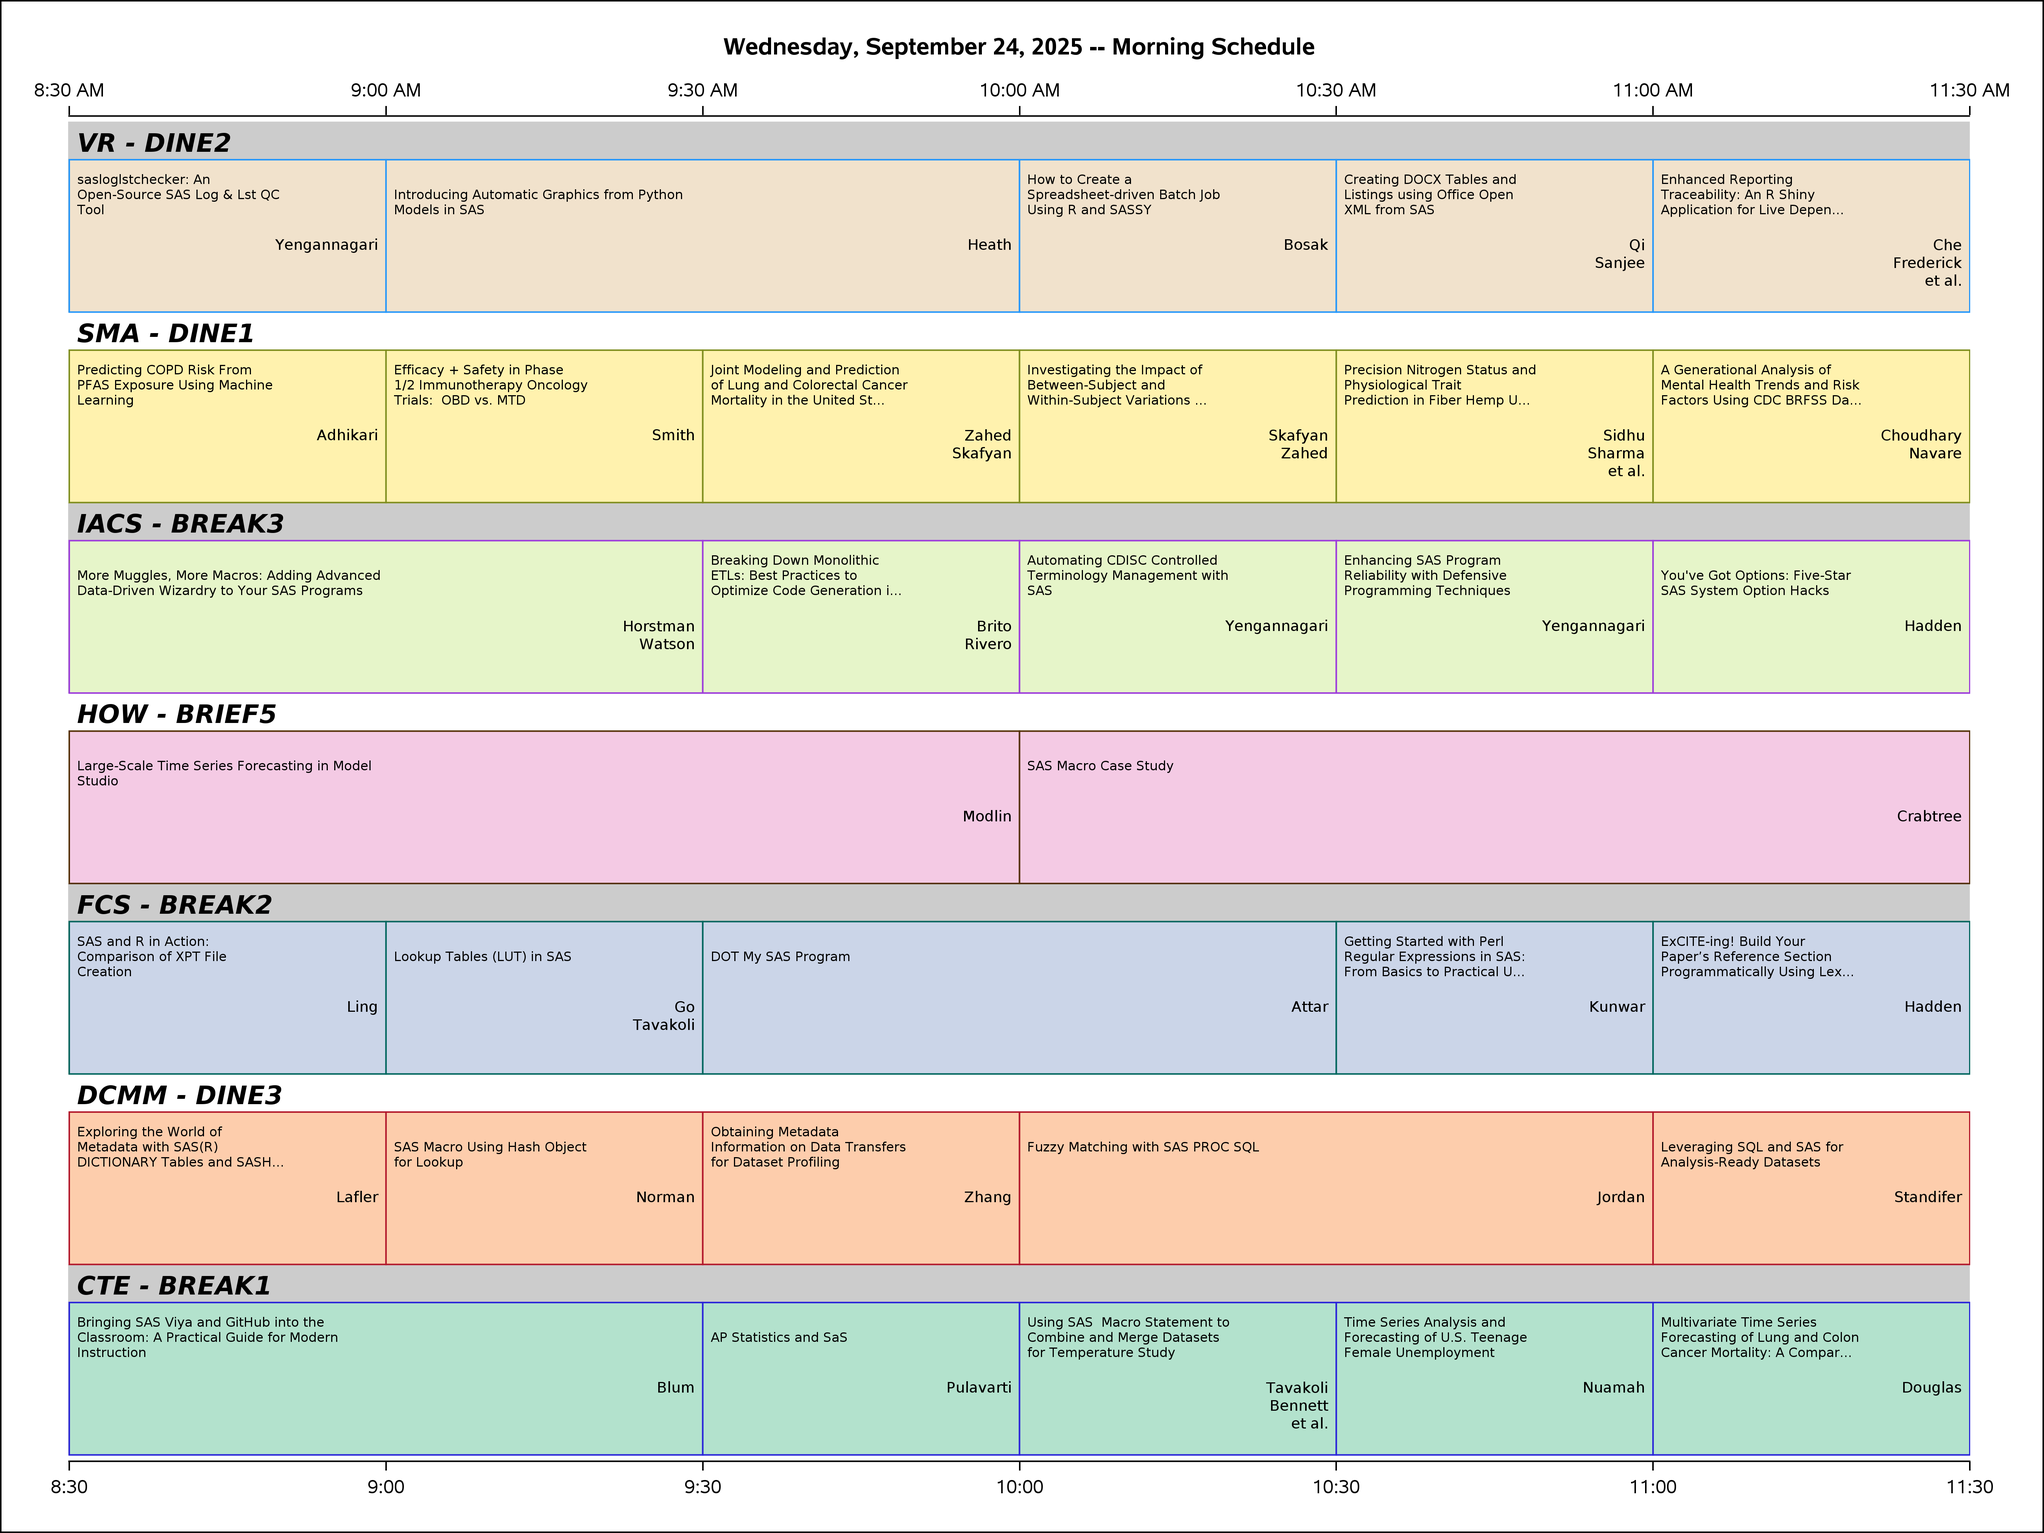
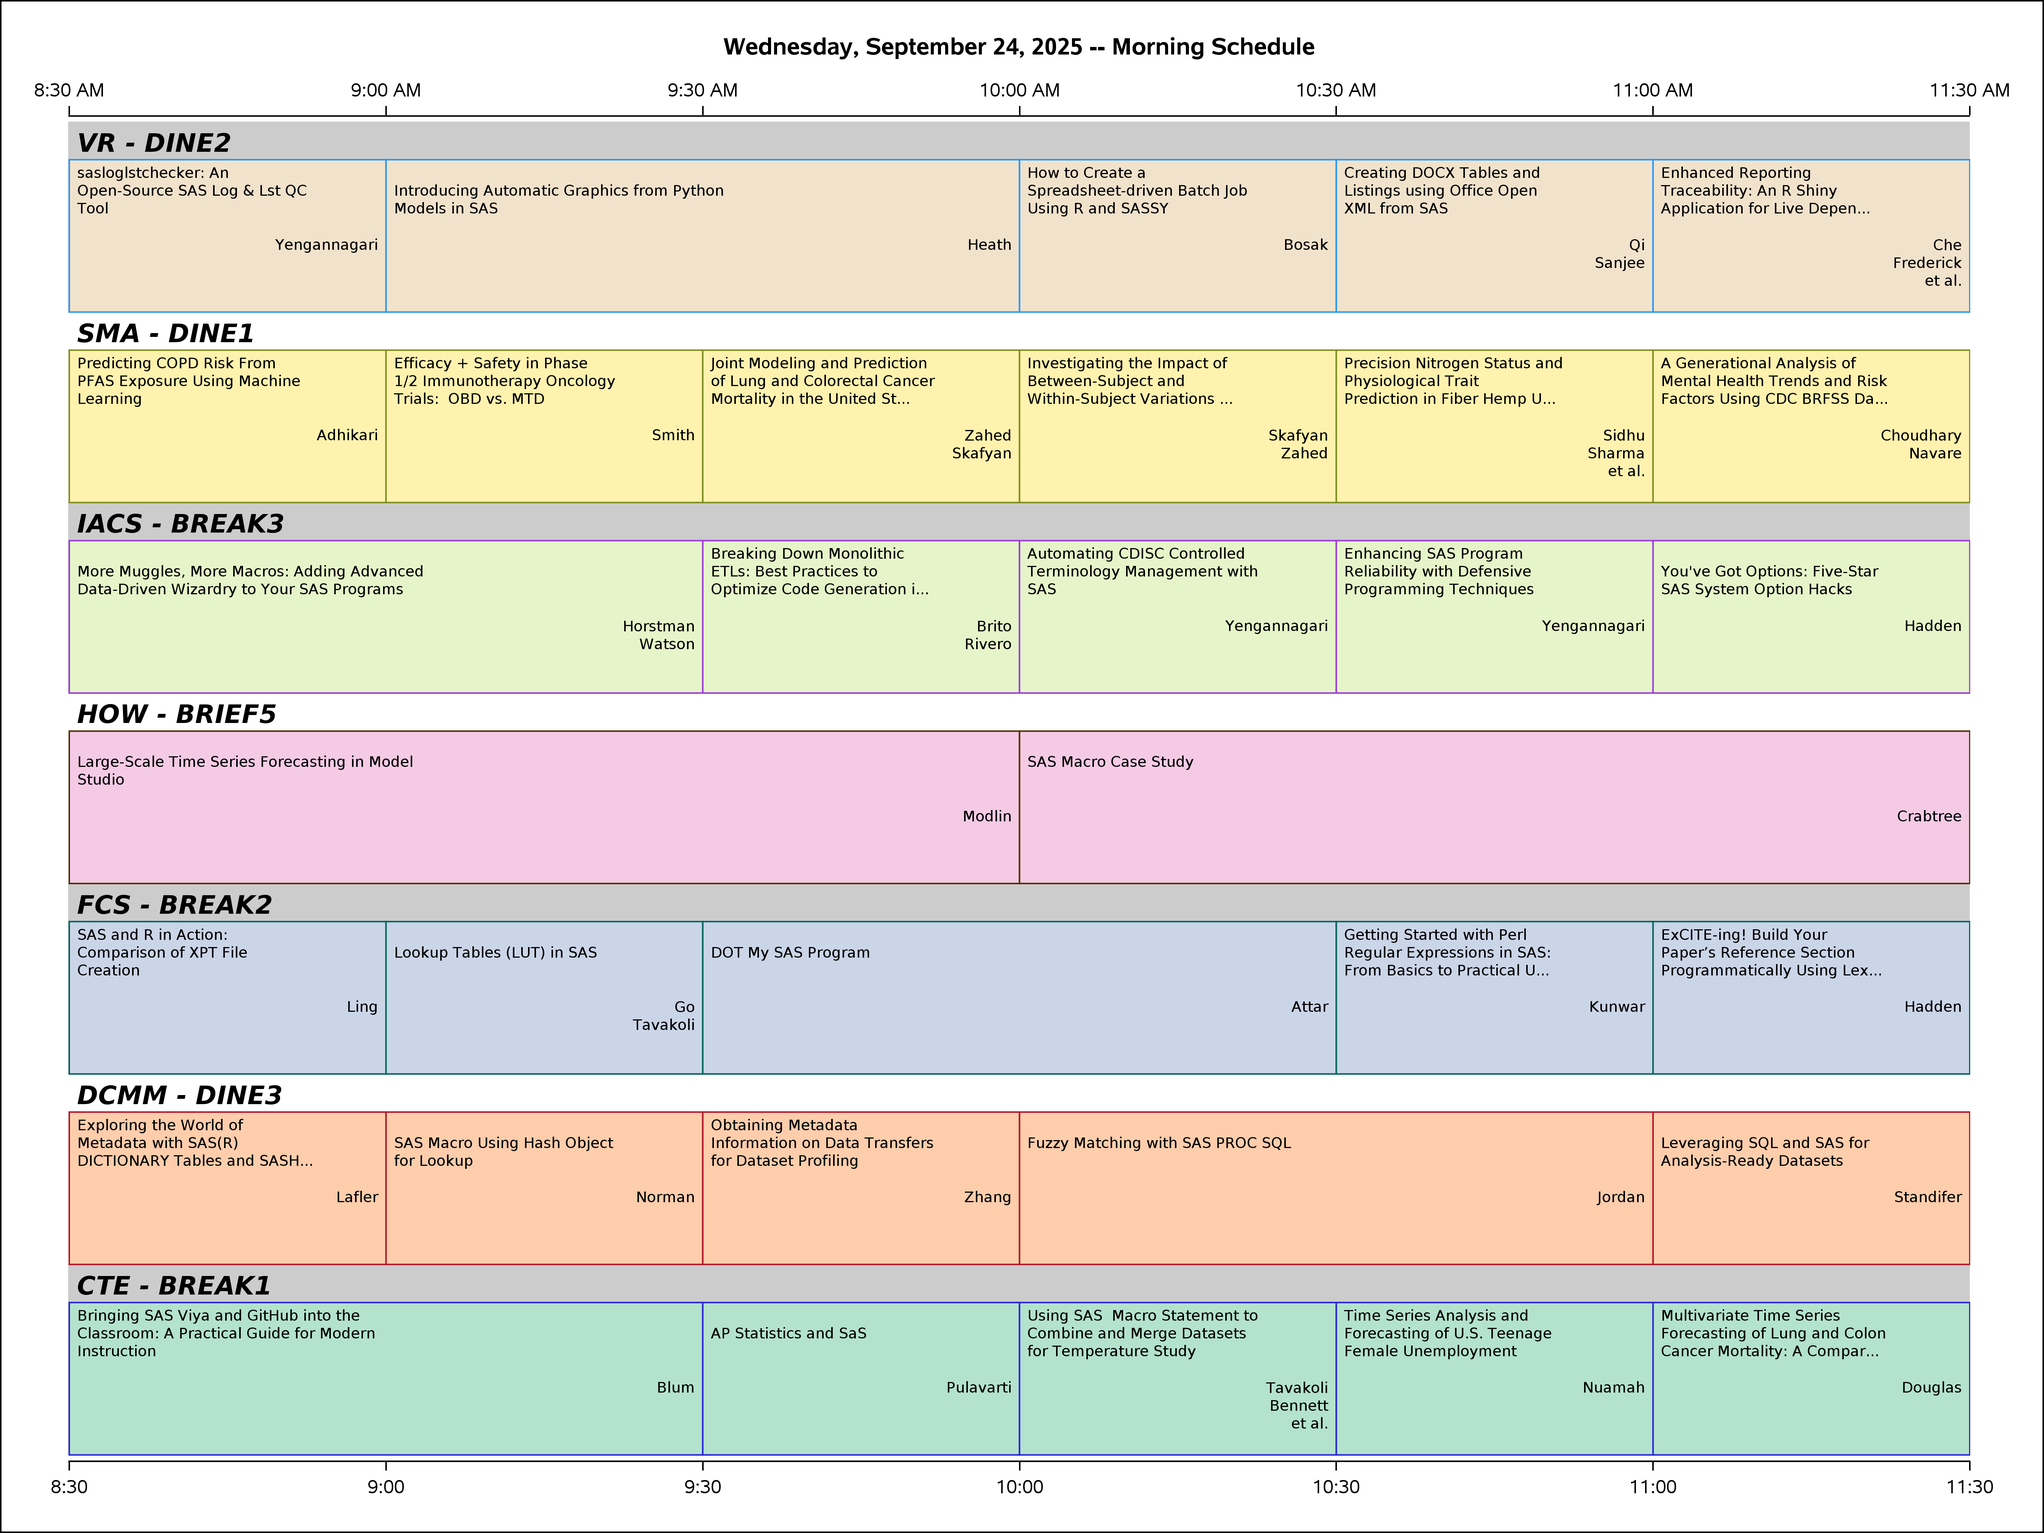
x

diff --git a/TuesdayAMSAAG.html b/TuesdayAMSAAG.html
@@ -1687,106 +1687,106 @@ TD, TH {vertical-align: top }
  Tracks = CTE" coords="65,1073,65,1098,224,1098,224,1073,65,1073,"/>
 <Area shape="poly" alt=" stime = 11:00 AM 
  Tracks = VR" title=" stime = 11:00 AM 
- Tracks = VR" coords="1404,142,1404,184,1585,184,1585,142,1404,142,"/>
+ Tracks = VR" coords="1404,139,1404,184,1601,184,1601,139,1404,139,"/>
 <Area shape="poly" alt=" stime = 10:30 AM 
  Tracks = VR" title=" stime = 10:30 AM 
- Tracks = VR" coords="1136,142,1136,184,1306,184,1306,142,1136,142,"/>
+ Tracks = VR" coords="1136,139,1136,184,1321,184,1321,139,1136,139,"/>
 <Area shape="poly" alt=" stime = 10:00 AM 
  Tracks = VR" title=" stime = 10:00 AM 
- Tracks = VR" coords="868,156,868,184,1038,184,1038,156,868,156,"/>
+ Tracks = VR" coords="868,154,868,184,1054,184,1054,154,868,154,"/>
 <Area shape="poly" alt=" stime = 9:00 AM 
  Tracks = VR" title=" stime = 9:00 AM 
- Tracks = VR" coords="333,156,333,184,603,184,603,156,333,156,"/>
+ Tracks = VR" coords="333,154,333,184,629,184,629,154,333,154,"/>
 <Area shape="poly" alt=" stime = 8:30 AM 
  Tracks = VR" title=" stime = 8:30 AM 
- Tracks = VR" coords="65,142,65,184,229,184,229,142,65,142,"/>
+ Tracks = VR" coords="65,139,65,184,246,184,246,139,65,139,"/>
 <Area shape="poly" alt=" stime = 11:00 AM 
  Tracks = SMA" title=" stime = 11:00 AM 
- Tracks = SMA" coords="1404,303,1404,345,1562,345,1562,303,1404,303,"/>
+ Tracks = SMA" coords="1404,300,1404,345,1578,345,1578,300,1404,300,"/>
 <Area shape="poly" alt=" stime = 10:30 AM 
  Tracks = SMA" title=" stime = 10:30 AM 
- Tracks = SMA" coords="1136,317,1136,345,1283,345,1283,317,1136,317,"/>
+ Tracks = SMA" coords="1136,315,1136,345,1301,345,1301,315,1136,315,"/>
 <Area shape="poly" alt=" stime = 10:00 AM 
  Tracks = SMA" title=" stime = 10:00 AM 
- Tracks = SMA" coords="868,303,868,345,1037,345,1037,303,868,303,"/>
+ Tracks = SMA" coords="868,300,868,345,1052,345,1052,300,868,300,"/>
 <Area shape="poly" alt=" stime = 9:30 AM 
  Tracks = SMA" title=" stime = 9:30 AM 
- Tracks = SMA" coords="601,317,601,345,762,345,762,317,601,317,"/>
+ Tracks = SMA" coords="601,315,601,345,774,345,774,315,601,315,"/>
 <Area shape="poly" alt=" stime = 9:00 AM 
  Tracks = SMA" title=" stime = 9:00 AM 
- Tracks = SMA" coords="333,303,333,345,502,345,502,303,333,303,"/>
+ Tracks = SMA" coords="333,300,333,345,519,345,519,300,333,300,"/>
 <Area shape="poly" alt=" stime = 8:30 AM 
  Tracks = SMA" title=" stime = 8:30 AM 
- Tracks = SMA" coords="65,317,65,345,236,345,236,317,65,317,"/>
+ Tracks = SMA" coords="65,315,65,345,246,345,246,315,65,315,"/>
 <Area shape="poly" alt=" stime = 10:30 AM 
  Tracks = IACS" title=" stime = 10:30 AM 
- Tracks = IACS" coords="1136,477,1136,505,1402,505,1402,477,1136,477,"/>
+ Tracks = IACS" coords="1136,475,1136,505,1425,505,1425,475,1136,475,"/>
 <Area shape="poly" alt=" stime = 10:00 AM 
  Tracks = IACS" title=" stime = 10:00 AM 
- Tracks = IACS" coords="868,463,868,505,1036,505,1036,463,868,463,"/>
+ Tracks = IACS" coords="868,460,868,505,1047,505,1047,460,868,460,"/>
 <Area shape="poly" alt=" stime = 9:30 AM 
  Tracks = IACS" title=" stime = 9:30 AM 
- Tracks = IACS" coords="601,463,601,505,759,505,759,463,601,463,"/>
+ Tracks = IACS" coords="601,460,601,505,773,505,773,460,601,460,"/>
 <Area shape="poly" alt=" stime = 9:00 AM 
  Tracks = IACS" title=" stime = 9:00 AM 
- Tracks = IACS" coords="333,477,333,505,498,505,498,477,333,477,"/>
+ Tracks = IACS" coords="333,475,333,505,514,505,514,475,333,475,"/>
 <Area shape="poly" alt=" stime = 8:30 AM 
  Tracks = IACS" title=" stime = 8:30 AM 
- Tracks = IACS" coords="65,463,65,505,231,505,231,463,65,463,"/>
+ Tracks = IACS" coords="65,460,65,505,245,505,245,460,65,460,"/>
 <Area shape="poly" alt=" stime = 10:00 AM 
  Tracks = HOW" title=" stime = 10:00 AM 
- Tracks = HOW" coords="868,638,868,666,1144,666,1144,638,868,638,"/>
+ Tracks = HOW" coords="868,636,868,666,1168,666,1168,636,868,636,"/>
 <Area shape="poly" alt=" stime = 8:30 AM 
  Tracks = HOW" title=" stime = 8:30 AM 
- Tracks = HOW" coords="65,638,65,666,304,666,304,638,65,638,"/>
+ Tracks = HOW" coords="65,636,65,666,320,666,320,636,65,636,"/>
 <Area shape="poly" alt=" stime = 10:30 AM 
  Tracks = FCS" title=" stime = 10:30 AM 
- Tracks = FCS" coords="1136,799,1136,827,1374,827,1374,799,1136,799,"/>
+ Tracks = FCS" coords="1136,797,1136,827,1386,827,1386,797,1136,797,"/>
 <Area shape="poly" alt=" stime = 10:00 AM 
  Tracks = FCS" title=" stime = 10:00 AM 
- Tracks = FCS" coords="868,785,868,827,1032,827,1032,785,868,785,"/>
+ Tracks = FCS" coords="868,782,868,827,1046,827,1046,782,868,782,"/>
 <Area shape="poly" alt=" stime = 9:30 AM 
  Tracks = FCS" title=" stime = 9:30 AM 
- Tracks = FCS" coords="601,799,601,827,778,827,778,799,601,799,"/>
+ Tracks = FCS" coords="601,797,601,827,790,827,790,797,601,797,"/>
 <Area shape="poly" alt=" stime = 9:00 AM 
  Tracks = FCS" title=" stime = 9:00 AM 
- Tracks = FCS" coords="333,785,333,827,506,827,506,785,333,785,"/>
+ Tracks = FCS" coords="333,782,333,827,522,827,522,782,333,782,"/>
 <Area shape="poly" alt=" stime = 8:30 AM 
  Tracks = FCS" title=" stime = 8:30 AM 
- Tracks = FCS" coords="65,785,65,827,245,827,245,785,65,785,"/>
+ Tracks = FCS" coords="65,782,65,827,262,827,262,782,65,782,"/>
 <Area shape="poly" alt=" stime = 11:00 AM 
  Tracks = DCMM" title=" stime = 11:00 AM 
- Tracks = DCMM" coords="1404,945,1404,987,1568,987,1568,945,1404,945,"/>
+ Tracks = DCMM" coords="1404,942,1404,987,1582,987,1582,942,1404,942,"/>
 <Area shape="poly" alt=" stime = 10:30 AM 
  Tracks = DCMM" title=" stime = 10:30 AM 
- Tracks = DCMM" coords="1136,945,1136,987,1304,987,1304,945,1136,945,"/>
+ Tracks = DCMM" coords="1136,942,1136,987,1322,987,1322,942,1136,942,"/>
 <Area shape="poly" alt=" stime = 10:00 AM 
  Tracks = DCMM" title=" stime = 10:00 AM 
- Tracks = DCMM" coords="868,945,868,987,1034,987,1034,945,868,945,"/>
+ Tracks = DCMM" coords="868,942,868,987,1049,987,1049,942,868,942,"/>
 <Area shape="poly" alt=" stime = 9:30 AM 
  Tracks = DCMM" title=" stime = 9:30 AM 
- Tracks = DCMM" coords="601,945,601,987,768,987,768,945,601,945,"/>
+ Tracks = DCMM" coords="601,942,601,987,783,987,783,942,601,942,"/>
 <Area shape="poly" alt=" stime = 9:00 AM 
  Tracks = DCMM" title=" stime = 9:00 AM 
- Tracks = DCMM" coords="333,945,333,987,494,987,494,945,333,945,"/>
+ Tracks = DCMM" coords="333,942,333,987,504,987,504,942,333,942,"/>
 <Area shape="poly" alt=" stime = 8:30 AM 
  Tracks = DCMM" title=" stime = 8:30 AM 
- Tracks = DCMM" coords="65,945,65,987,235,987,235,945,65,945,"/>
+ Tracks = DCMM" coords="65,942,65,987,252,987,252,942,65,942,"/>
 <Area shape="poly" alt=" stime = 11:00 AM 
  Tracks = CTE" title=" stime = 11:00 AM 
- Tracks = CTE" coords="1404,1106,1404,1148,1582,1148,1582,1106,1404,1106,"/>
+ Tracks = CTE" coords="1404,1103,1404,1148,1595,1148,1595,1103,1404,1103,"/>
 <Area shape="poly" alt=" stime = 10:30 AM 
  Tracks = CTE" title=" stime = 10:30 AM 
- Tracks = CTE" coords="1136,1120,1136,1148,1286,1148,1286,1120,1136,1120,"/>
+ Tracks = CTE" coords="1136,1118,1136,1148,1295,1148,1295,1118,1136,1118,"/>
 <Area shape="poly" alt=" stime = 9:30 AM 
  Tracks = CTE" title=" stime = 9:30 AM 
- Tracks = CTE" coords="601,1120,601,1148,870,1148,870,1120,601,1120,"/>
+ Tracks = CTE" coords="601,1118,601,1148,899,1148,899,1118,601,1118,"/>
 <Area shape="poly" alt=" stime = 9:00 AM 
  Tracks = CTE" title=" stime = 9:00 AM 
- Tracks = CTE" coords="333,1106,333,1148,476,1148,476,1106,333,1106,"/>
+ Tracks = CTE" coords="333,1103,333,1148,487,1148,487,1103,333,1103,"/>
 <Area shape="poly" alt=" stime = 8:30 AM 
  Tracks = CTE" title=" stime = 8:30 AM 
- Tracks = CTE" coords="65,1106,65,1148,232,1148,232,1106,65,1106,"/>
+ Tracks = CTE" coords="65,1103,65,1148,248,1148,248,1103,65,1103,"/>
 <Area shape="poly" alt=" etime = 11:30 AM 
  Tracks = VR" title=" etime = 11:30 AM 
  Tracks = VR" coords="1598,200,1598,245,1658,245,1658,200,1598,200,"/>

diff --git a/WednesdayAMSAAG.html b/WednesdayAMSAAG.html
@@ -1687,103 +1687,103 @@ TD, TH {vertical-align: top }
  Tracks = CTE" coords="65,1073,65,1098,224,1098,224,1073,65,1073,"/>
 <Area shape="poly" alt=" stime = 11:00 AM 
  Tracks = VR" title=" stime = 11:00 AM 
- Tracks = VR" coords="1404,142,1404,184,1563,184,1563,142,1404,142,"/>
+ Tracks = VR" coords="1404,139,1404,184,1578,184,1578,139,1404,139,"/>
 <Area shape="poly" alt=" stime = 10:30 AM 
  Tracks = VR" title=" stime = 10:30 AM 
- Tracks = VR" coords="1136,142,1136,184,1287,184,1287,142,1136,142,"/>
+ Tracks = VR" coords="1136,139,1136,184,1299,184,1299,139,1136,139,"/>
 <Area shape="poly" alt=" stime = 10:00 AM 
  Tracks = VR" title=" stime = 10:00 AM 
- Tracks = VR" coords="868,142,868,184,1037,184,1037,142,868,142,"/>
+ Tracks = VR" coords="868,139,868,184,1054,184,1054,139,868,139,"/>
 <Area shape="poly" alt=" stime = 9:00 AM 
  Tracks = VR" title=" stime = 9:00 AM 
- Tracks = VR" coords="333,156,333,184,584,184,584,156,333,156,"/>
+ Tracks = VR" coords="333,154,333,184,609,184,609,154,333,154,"/>
 <Area shape="poly" alt=" stime = 8:30 AM 
  Tracks = VR" title=" stime = 8:30 AM 
- Tracks = VR" coords="65,142,65,184,246,184,246,142,65,142,"/>
+ Tracks = VR" coords="65,139,65,184,257,184,257,139,65,139,"/>
 <Area shape="poly" alt=" stime = 11:00 AM 
  Tracks = SMA" title=" stime = 11:00 AM 
- Tracks = SMA" coords="1404,303,1404,345,1582,345,1582,303,1404,303,"/>
+ Tracks = SMA" coords="1404,300,1404,345,1595,345,1595,300,1404,300,"/>
 <Area shape="poly" alt=" stime = 10:30 AM 
  Tracks = SMA" title=" stime = 10:30 AM 
- Tracks = SMA" coords="1136,303,1136,345,1306,345,1306,303,1136,303,"/>
+ Tracks = SMA" coords="1136,300,1136,345,1324,345,1324,300,1136,300,"/>
 <Area shape="poly" alt=" stime = 10:00 AM 
  Tracks = SMA" title=" stime = 10:00 AM 
- Tracks = SMA" coords="868,303,868,345,1024,345,1024,303,868,303,"/>
+ Tracks = SMA" coords="868,300,868,345,1040,345,1040,300,868,300,"/>
 <Area shape="poly" alt=" stime = 9:30 AM 
  Tracks = SMA" title=" stime = 9:30 AM 
- Tracks = SMA" coords="601,303,601,345,773,345,773,303,601,303,"/>
+ Tracks = SMA" coords="601,300,601,345,790,345,790,300,601,300,"/>
 <Area shape="poly" alt=" stime = 9:00 AM 
  Tracks = SMA" title=" stime = 9:00 AM 
- Tracks = SMA" coords="333,303,333,345,500,345,500,303,333,303,"/>
+ Tracks = SMA" coords="333,300,333,345,515,345,515,300,333,300,"/>
 <Area shape="poly" alt=" stime = 8:30 AM 
  Tracks = SMA" title=" stime = 8:30 AM 
- Tracks = SMA" coords="65,303,65,345,236,345,236,303,65,303,"/>
+ Tracks = SMA" coords="65,300,65,345,253,345,253,300,65,300,"/>
 <Area shape="poly" alt=" stime = 11:00 AM 
  Tracks = IACS" title=" stime = 11:00 AM 
- Tracks = IACS" coords="1404,477,1404,505,1577,505,1577,477,1404,477,"/>
+ Tracks = IACS" coords="1404,475,1404,505,1588,505,1588,475,1404,475,"/>
 <Area shape="poly" alt=" stime = 10:30 AM 
  Tracks = IACS" title=" stime = 10:30 AM 
- Tracks = IACS" coords="1136,463,1136,505,1282,505,1282,463,1136,463,"/>
+ Tracks = IACS" coords="1136,460,1136,505,1295,505,1295,460,1136,460,"/>
 <Area shape="poly" alt=" stime = 10:00 AM 
  Tracks = IACS" title=" stime = 10:00 AM 
- Tracks = IACS" coords="868,463,868,505,1042,505,1042,463,868,463,"/>
+ Tracks = IACS" coords="868,460,868,505,1058,505,1058,460,868,460,"/>
 <Area shape="poly" alt=" stime = 9:30 AM 
  Tracks = IACS" title=" stime = 9:30 AM 
- Tracks = IACS" coords="601,463,601,505,769,505,769,463,601,463,"/>
+ Tracks = IACS" coords="601,460,601,505,782,505,782,460,601,460,"/>
 <Area shape="poly" alt=" stime = 8:30 AM 
  Tracks = IACS" title=" stime = 8:30 AM 
- Tracks = IACS" coords="65,477,65,505,329,505,329,477,65,477,"/>
+ Tracks = IACS" coords="65,475,65,505,356,505,356,475,65,475,"/>
 <Area shape="poly" alt=" stime = 10:00 AM 
  Tracks = HOW" title=" stime = 10:00 AM 
- Tracks = HOW" coords="868,638,868,666,1094,666,1094,638,868,638,"/>
+ Tracks = HOW" coords="868,636,868,666,1104,666,1104,636,868,636,"/>
 <Area shape="poly" alt=" stime = 8:30 AM 
  Tracks = HOW" title=" stime = 8:30 AM 
- Tracks = HOW" coords="65,638,65,666,326,666,326,638,65,638,"/>
+ Tracks = HOW" coords="65,636,65,666,348,666,348,636,65,636,"/>
 <Area shape="poly" alt=" stime = 11:00 AM 
  Tracks = FCS" title=" stime = 11:00 AM 
- Tracks = FCS" coords="1404,785,1404,827,1574,827,1574,785,1404,785,"/>
+ Tracks = FCS" coords="1404,782,1404,827,1586,827,1586,782,1404,782,"/>
 <Area shape="poly" alt=" stime = 10:30 AM 
  Tracks = FCS" title=" stime = 10:30 AM 
- Tracks = FCS" coords="1136,785,1136,827,1298,827,1298,785,1136,785,"/>
+ Tracks = FCS" coords="1136,782,1136,827,1311,827,1311,782,1136,782,"/>
 <Area shape="poly" alt=" stime = 9:30 AM 
  Tracks = FCS" title=" stime = 9:30 AM 
- Tracks = FCS" coords="601,799,601,827,828,827,828,799,601,799,"/>
+ Tracks = FCS" coords="601,797,601,827,835,827,835,797,601,797,"/>
 <Area shape="poly" alt=" stime = 9:00 AM 
  Tracks = FCS" title=" stime = 9:00 AM 
- Tracks = FCS" coords="333,799,333,827,501,827,501,799,333,799,"/>
+ Tracks = FCS" coords="333,797,333,827,514,827,514,797,333,797,"/>
 <Area shape="poly" alt=" stime = 8:30 AM 
  Tracks = FCS" title=" stime = 8:30 AM 
- Tracks = FCS" coords="65,785,65,827,197,827,197,785,65,785,"/>
+ Tracks = FCS" coords="65,782,65,827,206,827,206,782,65,782,"/>
 <Area shape="poly" alt=" stime = 11:00 AM 
  Tracks = DCMM" title=" stime = 11:00 AM 
- Tracks = DCMM" coords="1404,959,1404,987,1568,987,1568,959,1404,959,"/>
+ Tracks = DCMM" coords="1404,957,1404,987,1581,987,1581,957,1404,957,"/>
 <Area shape="poly" alt=" stime = 10:00 AM 
  Tracks = DCMM" title=" stime = 10:00 AM 
- Tracks = DCMM" coords="868,959,868,987,1115,987,1115,959,868,959,"/>
+ Tracks = DCMM" coords="868,957,868,987,1129,987,1129,957,868,957,"/>
 <Area shape="poly" alt=" stime = 9:30 AM 
  Tracks = DCMM" title=" stime = 9:30 AM 
- Tracks = DCMM" coords="601,945,601,987,774,987,774,945,601,945,"/>
+ Tracks = DCMM" coords="601,942,601,987,789,987,789,942,601,942,"/>
 <Area shape="poly" alt=" stime = 9:00 AM 
  Tracks = DCMM" title=" stime = 9:00 AM 
- Tracks = DCMM" coords="333,959,333,987,503,987,503,959,333,959,"/>
+ Tracks = DCMM" coords="333,957,333,987,518,987,518,957,333,957,"/>
 <Area shape="poly" alt=" stime = 8:30 AM 
  Tracks = DCMM" title=" stime = 8:30 AM 
- Tracks = DCMM" coords="65,945,65,987,246,987,246,945,65,945,"/>
+ Tracks = DCMM" coords="65,942,65,987,258,987,258,942,65,942,"/>
 <Area shape="poly" alt=" stime = 11:00 AM 
  Tracks = CTE" title=" stime = 11:00 AM 
- Tracks = CTE" coords="1404,1106,1404,1148,1577,1148,1577,1106,1404,1106,"/>
+ Tracks = CTE" coords="1404,1103,1404,1148,1595,1148,1595,1103,1404,1103,"/>
 <Area shape="poly" alt=" stime = 10:30 AM 
  Tracks = CTE" title=" stime = 10:30 AM 
- Tracks = CTE" coords="1136,1106,1136,1148,1298,1148,1298,1106,1136,1106,"/>
+ Tracks = CTE" coords="1136,1103,1136,1148,1314,1148,1314,1103,1136,1103,"/>
 <Area shape="poly" alt=" stime = 10:00 AM 
  Tracks = CTE" title=" stime = 10:00 AM 
- Tracks = CTE" coords="868,1106,868,1148,1047,1148,1047,1106,868,1106,"/>
+ Tracks = CTE" coords="868,1103,868,1148,1064,1148,1064,1103,868,1103,"/>
 <Area shape="poly" alt=" stime = 9:30 AM 
  Tracks = CTE" title=" stime = 9:30 AM 
- Tracks = CTE" coords="601,1120,601,1148,756,1148,756,1120,601,1120,"/>
+ Tracks = CTE" coords="601,1118,601,1148,767,1148,767,1118,601,1118,"/>
 <Area shape="poly" alt=" stime = 8:30 AM 
  Tracks = CTE" title=" stime = 8:30 AM 
- Tracks = CTE" coords="65,1106,65,1148,297,1148,297,1106,65,1106,"/>
+ Tracks = CTE" coords="65,1103,65,1148,316,1148,316,1103,65,1103,"/>
 <Area shape="poly" alt=" etime = 11:30 AM 
  Tracks = VR" title=" etime = 11:30 AM 
  Tracks = VR" coords="1596,200,1596,245,1658,245,1658,200,1596,200,"/>
